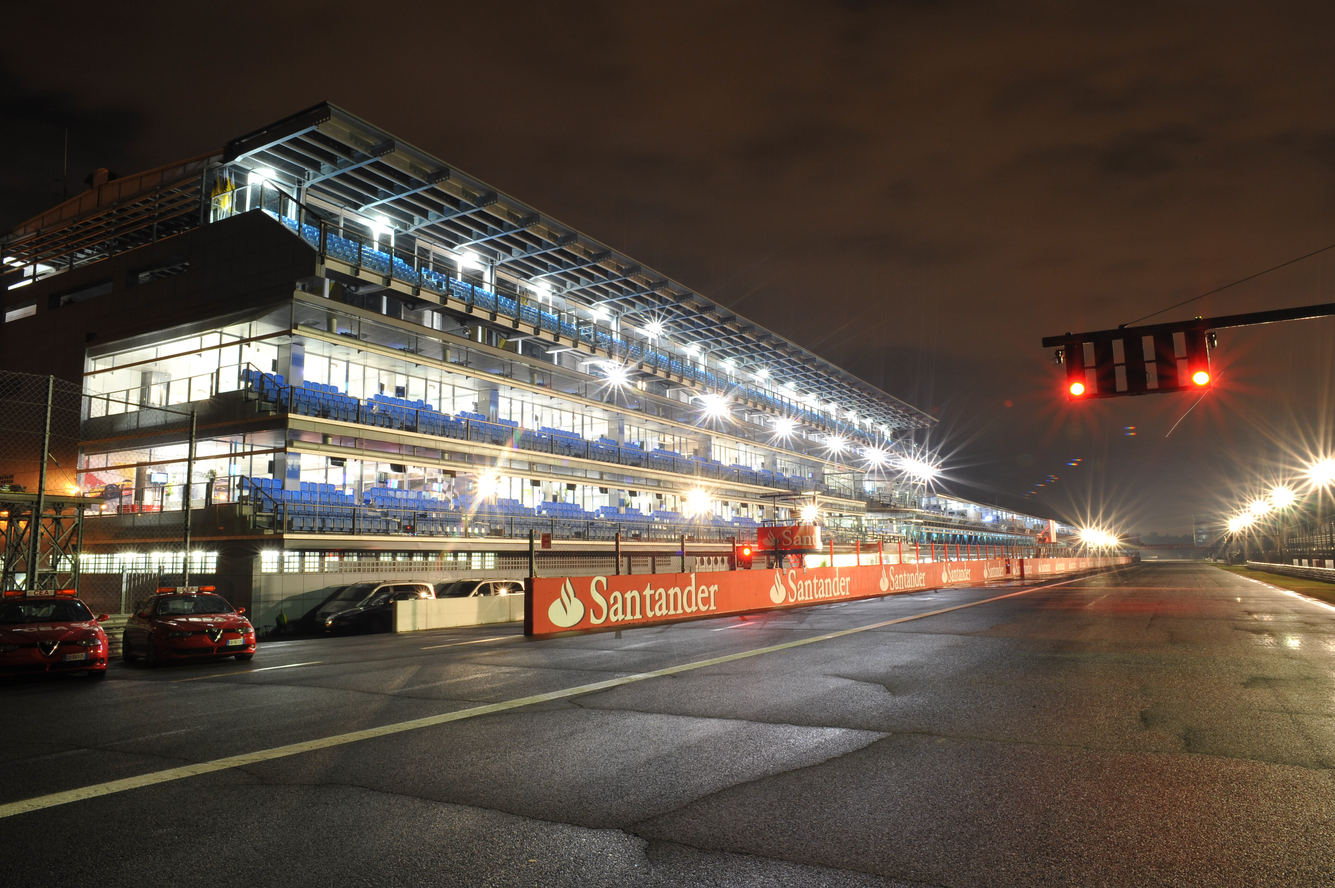
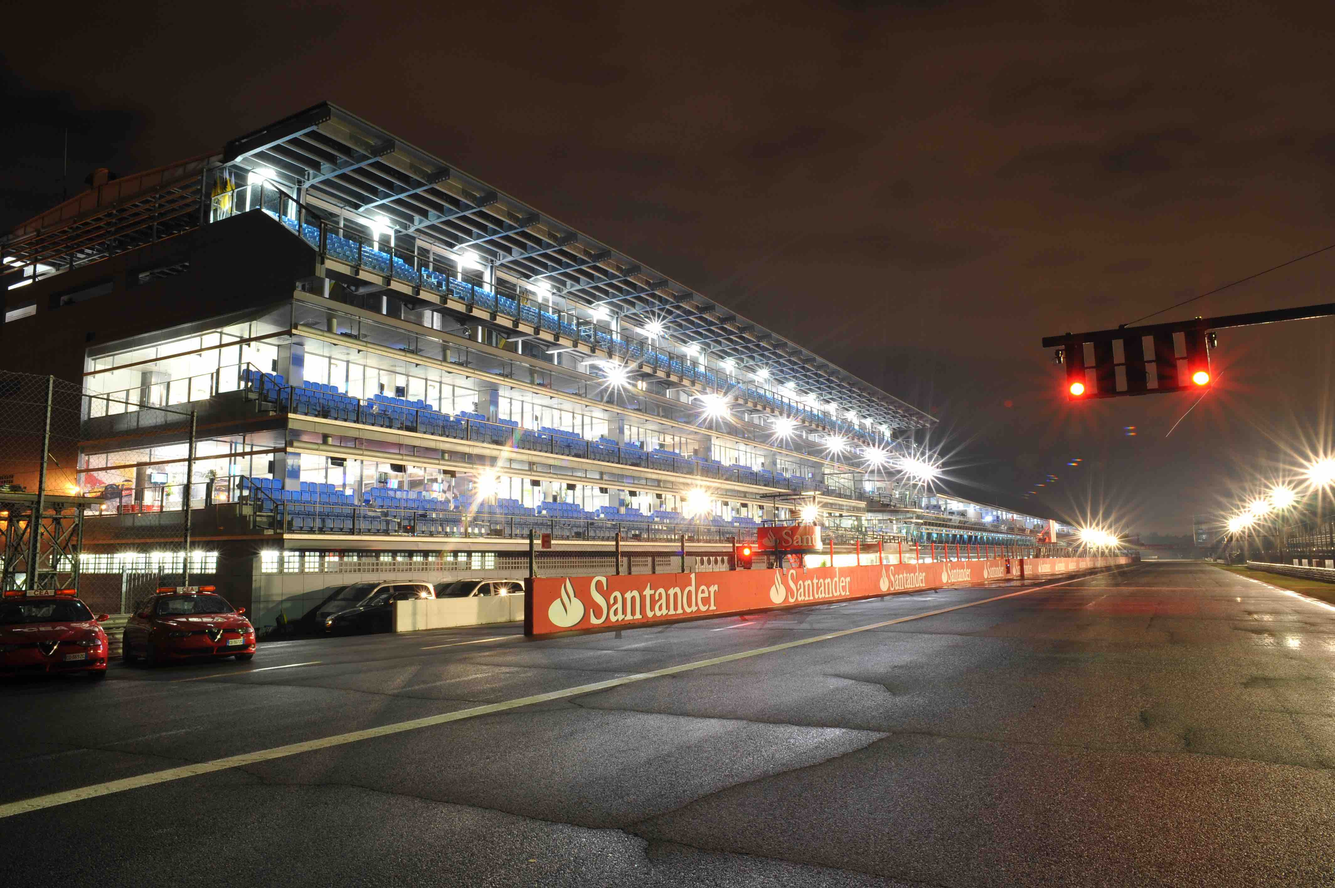
_

diff --git a/style.css b/style.css
@@ -28,7 +28,7 @@ html, body {
     height: calc(100vh - 100px);
     width:100vw;
     display: block;
-    background: url(http://media.eventreport.it/media/directory_img/2012/06/22482248PNZ_0242.JPG);
+    background: url(media/background.jpg);
     background-size: cover;
     background-position: center;
 }
@@ -57,5 +57,11 @@ h1 {
     .layer div {
         margin-top: 30px;
         margin-bottom: 30px;
+    }
+}
+@media (max-width: 380px) {
+    .layer div {
+        display: block;
+        margin: 15px auto;
     }
 }
